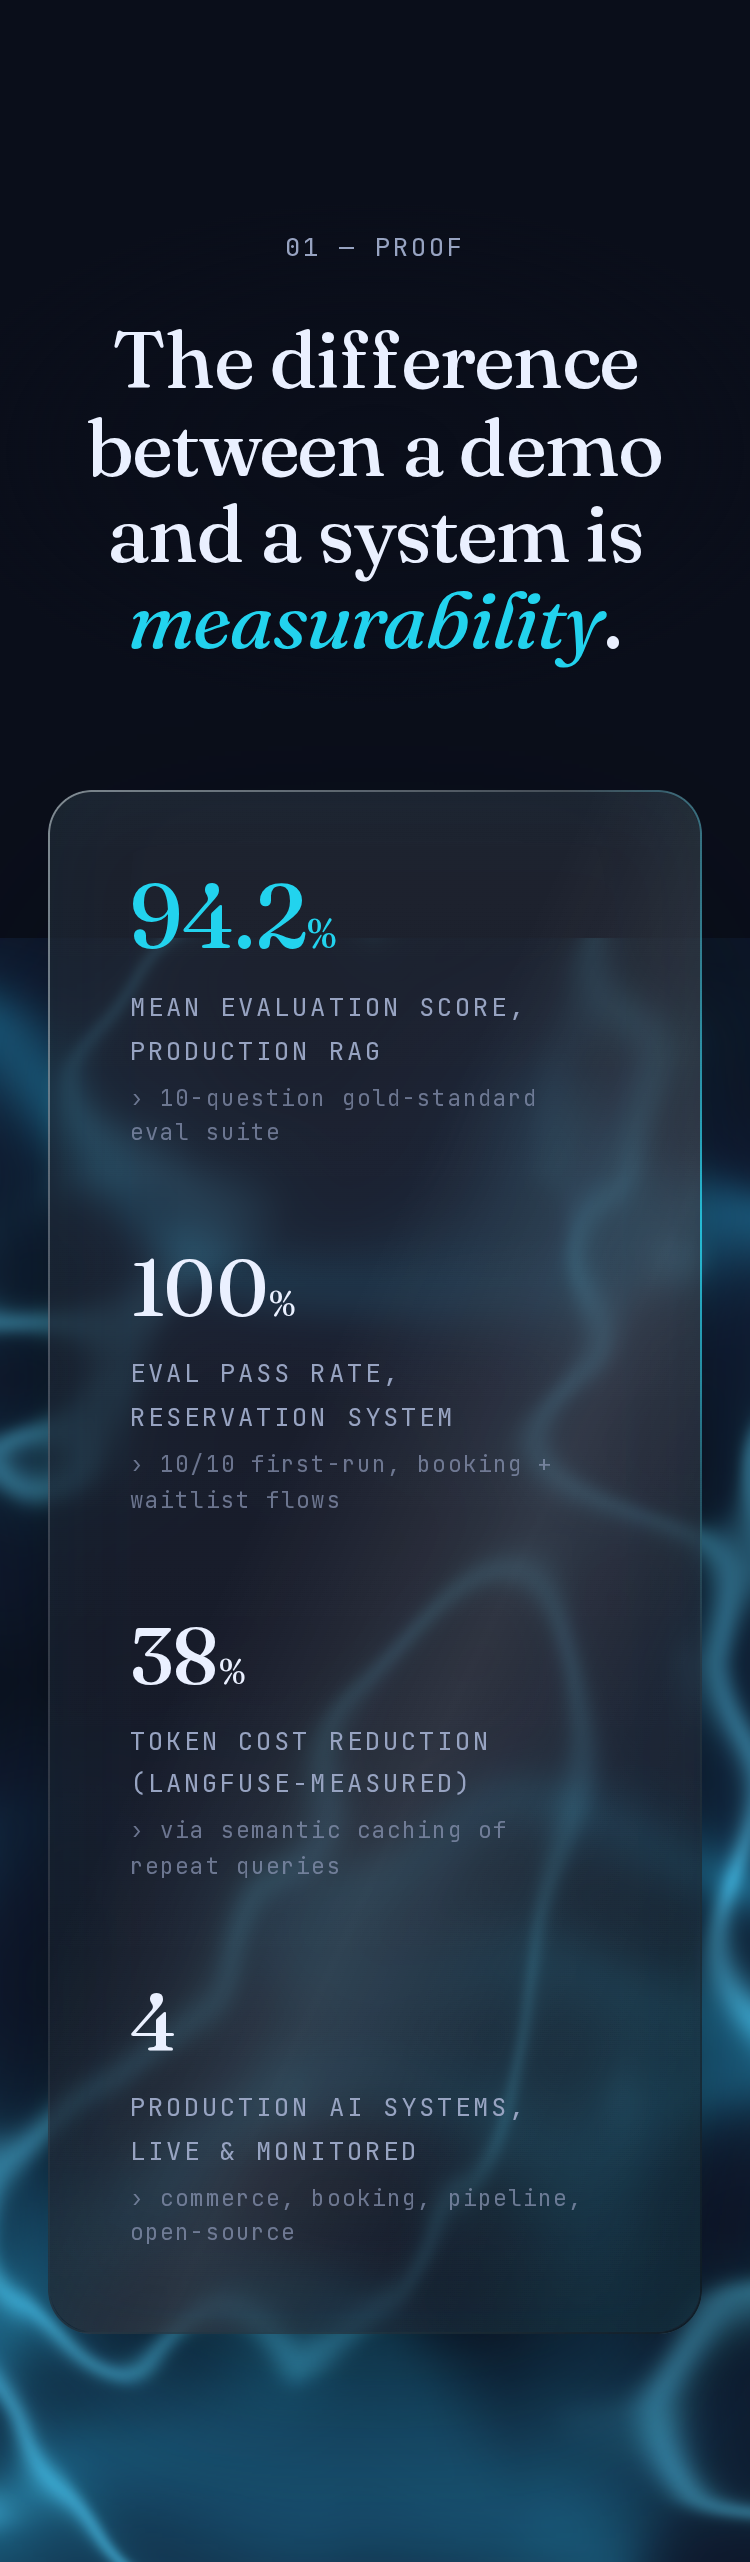
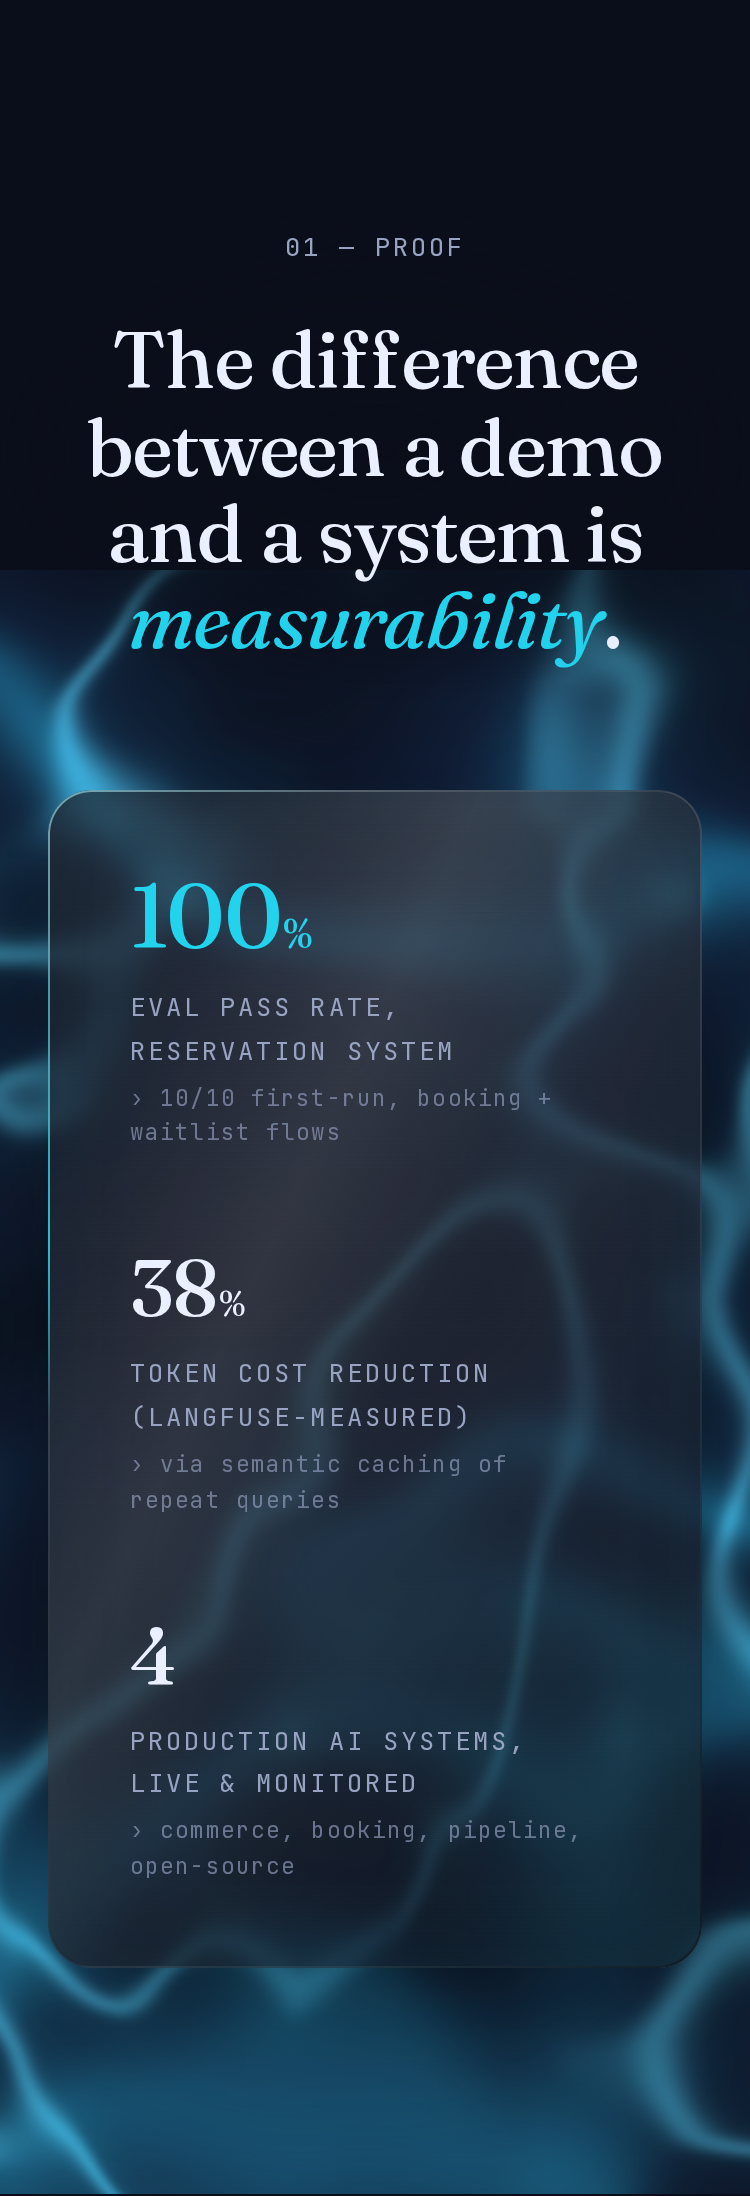
fix(portfolio): remove indefensible 94.2% metric site-wide
94.2% was a retired-model eval score that can't be defended in an
interview — removed from every portfolio component.

- DarkProof (live): dropped the 94.2 lead figure and restructured the
  2x2 into a clean single row of the three defensible metrics — 100%
  (now the cyan lead + largest), 38% token cost reduction, 4 production
  systems. Balanced 3-col row (md:grid-cols-3), stacks to one column on
  mobile; count-up + reveal intact.
- DarkWork (live): already free of 94.2 (fixed earlier).
- Light Proof.tsx / Work.tsx (dormant on this branch, present in tree):
  swapped 94.2 out too — light Proof keeps its 2x2 with "4 production
  systems" in place of 94.2 and 100% promoted to lead; light Work card
  1 -> "38% lower cost per message · Langfuse-traced", card 4 ->
  "Public reference · same RAG + caching + eval patterns".

Left intentionally: src/components/dashboard/EvalScores.tsx still shows
94.2 — that's the private, password-gated /os mission-control tool
(internal ops data, not a public recruiter-facing claim). Flag for
Sherry to decide separately.

Verified: grep clean across portfolio components, Proof recaptured
1440 + 375 (100% leads, balanced), 0 overflow, tsc + eslint clean.

diff --git a/src/components/portfolio-dark/DarkProof.tsx b/src/components/portfolio-dark/DarkProof.tsx
@@ -14,17 +14,11 @@ type Metric = {
 
 const METRICS: Metric[] = [
   {
-    value: "94.2",
-    suffix: "%",
-    caption: "Mean evaluation score, production RAG",
-    context: "10-question gold-standard eval suite",
-    accent: true,
-  },
-  {
     value: "100",
     suffix: "%",
     caption: "Eval pass rate, reservation system",
     context: "10/10 first-run, booking + waitlist flows",
+    accent: true, // the lead — cyan + largest
   },
   {
     value: "38",
@@ -154,12 +148,13 @@ export default function DarkProof() {
           </h2>
         </div>
 
-        {/* Figures — ONE liquid-glass panel, clean aligned 2×2 */}
+        {/* Figures — ONE liquid-glass panel, three defensible metrics in a
+            clean single row (100% leads: cyan + largest) */}
         <div
           className="glass-liquid mx-auto mt-[var(--space-16)] max-w-[64rem] rounded-3xl lg:mt-[var(--space-24)]"
           style={{ padding: "clamp(2.5rem, 6vw, 4.5rem)" }}
         >
-          <div className="glass-liquid-content grid grid-cols-1 items-start gap-y-[var(--space-12)] md:grid-cols-2 md:gap-x-[var(--space-16)] md:gap-y-[var(--space-16)]">
+          <div className="glass-liquid-content grid grid-cols-1 items-start gap-y-[var(--space-12)] md:grid-cols-3 md:gap-x-[var(--space-12)] md:gap-y-0">
             {METRICS.map((m, i) => (
               <Reveal key={m.caption} delay={i * 0.08} onRevealStart={() => startCount(i)}>
                 <p

diff --git a/src/components/portfolio/Work.tsx b/src/components/portfolio/Work.tsx
@@ -18,7 +18,7 @@ const CASES: CaseStudy[] = [
     meta: "Private client · Commerce",
     description:
       "A WhatsApp sales agent that answers in the customer's own language, retrieves product knowledge through RAG, and semantically caches repeat questions. Every response is traced end-to-end in Langfuse.",
-    metric: "94.2% eval · 38% token cost reduction",
+    metric: "38% lower cost per message · Langfuse-traced",
     metricAccent: true,
     stack: ["Python", "FastAPI", "ChromaDB", "Claude", "Langfuse"],
   },
@@ -48,7 +48,7 @@ const CASES: CaseStudy[] = [
     meta: "Public · Reference architecture",
     description:
       "An anonymized reference architecture of the commerce agent — the same retrieval, caching and eval patterns, published as a public repository.",
-    metric: "94.2% eval · public repo",
+    metric: "Public reference · same RAG + caching + eval patterns",
     metricAccent: false, // the row's single accent is the outbound link
     stack: ["Python", "ChromaDB", "FastAPI"],
     link: { label: "GitHub", href: "https://github.com/sherrybuilds-studio" },

diff --git a/src/components/portfolio/Proof.tsx b/src/components/portfolio/Proof.tsx
@@ -9,20 +9,19 @@ type Metric = {
 
 const METRICS: Metric[] = [
   {
-    value: "94.2",
-    suffix: "%",
-    caption: "Mean eval score, production",
-    accent: true,
-  },
-  {
     value: "100",
     suffix: "%",
     caption: "First-run eval, reservation system",
+    accent: true,
   },
   {
     value: "38",
     suffix: "%",
     caption: "Token cost reduction, measured in Langfuse",
+  },
+  {
+    value: "4",
+    caption: "Production AI systems, live & monitored",
   },
   {
     value: "78",
